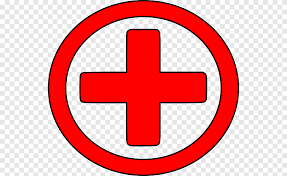
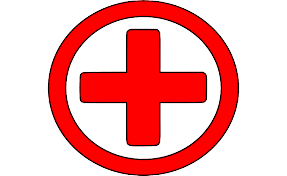
Added toast and some tweaks

Changed region(s): [[0.0, 0.0, 1.0, 1.0], [0.223, 0.0852, 0.7805, 0.9091], [0.446, 0.9943, 0.5575, 1.0]]

diff --git a/lib/login_signup_page.dart b/lib/login_signup_page.dart
@@ -1,6 +1,8 @@
 import 'package:flutter/material.dart';
 import 'package:login_demo/authentication.dart';
 
+import 'package:fluttertoast/fluttertoast.dart';
+
 class LoginSignupPage extends StatefulWidget {
   LoginSignupPage({this.auth, this.loginCallback});
 
@@ -88,7 +90,7 @@ class _LoginSignupPageState extends State<LoginSignupPage> {
       child: Padding(
         padding: EdgeInsets.fromLTRB(0.0, 30.0, 0.0, 0.0),
         child: CircleAvatar(
-          // backgroundColor: Colors.transparent,
+          backgroundColor: Colors.transparent,
           radius: 48.0,
           child: Image.asset('assets/cross.png'),
         ),
@@ -98,7 +100,7 @@ class _LoginSignupPageState extends State<LoginSignupPage> {
 
   Widget showEmailInput() {
     return Padding(
-      padding: const EdgeInsets.fromLTRB(0.0, 80.0, 0.0, 0.0),
+      padding: const EdgeInsets.fromLTRB(0.0, 50.0, 0.0, 0.0),
       child: new TextFormField(
         maxLines: 1,
         keyboardType: TextInputType.emailAddress,
@@ -117,7 +119,7 @@ class _LoginSignupPageState extends State<LoginSignupPage> {
 
   Widget showPasswordInput() {
     return Padding(
-      padding: const EdgeInsets.fromLTRB(0.0, 15.0, 0.0, 0.0),
+      padding: const EdgeInsets.fromLTRB(0.0, 20.0, 0.0, 0.0),
       child: new TextFormField(
         maxLines: 1,
         obscureText: true,
@@ -210,13 +212,39 @@ class _LoginSignupPageState extends State<LoginSignupPage> {
         if (_isLoginForm) {
           userId = await widget.auth.signIn(_email, _password);
           print('Signed in: $userId');
+
+          Fluttertoast.showToast(
+            msg: "LOGIN Success",
+            toastLength: Toast.LENGTH_SHORT,
+            gravity: ToastGravity.CENTER,
+            timeInSecForIosWeb: 1,
+            backgroundColor: Colors.grey,
+            textColor: Colors.black,
+            fontSize: 16.0,
+          );
         }
         // SignupForm
         else {
-          userId = await widget.auth.signUp(_email, _password);
+          try {
+            userId = await widget.auth.signUp(_email, _password);
+            // Toast.show("Signup Success", context,
+            //     duration: Toast.LENGTH_SHORT, gravity: Toast.BOTTOM);
+
+            Fluttertoast.showToast(
+                msg: "SIGNUP Success",
+                toastLength: Toast.LENGTH_SHORT,
+                gravity: ToastGravity.CENTER,
+                timeInSecForIosWeb: 1,
+                backgroundColor: Colors.grey,
+                textColor: Colors.black,
+                fontSize: 16.0);
+
+            print('Signed up user: $userId');
+          } catch (e) {
+            print(e);
+          }
           //widget.auth.sendEmailVerification();
           //_showVerifyEmailSentDialog();
-          print('Signed up user: $userId');
         }
         setState(() {
           _isLoading = false;

diff --git a/lib/homepage.dart b/lib/homepage.dart
@@ -1,6 +1,8 @@
 import 'package:flutter/material.dart';
 import 'package:login_demo/authentication.dart';
 
+import 'package:fluttertoast/fluttertoast.dart';
+
 class HomePage extends StatelessWidget {
   HomePage({this.auth, this.userId, this.onSignedOut});
 
@@ -12,6 +14,17 @@ class HomePage extends StatelessWidget {
     try {
       await auth.signOut();
       onSignedOut();
+
+      Fluttertoast.showToast(
+        
+          msg: "Logout Success",
+          toastLength: Toast.LENGTH_SHORT,
+          gravity: ToastGravity.BOTTOM,
+          timeInSecForIosWeb: 1,
+          backgroundColor: Colors.grey,
+          textColor: Colors.black,
+          fontSize: 16.0
+          );
     } catch (e) {
       print(e);
     }
@@ -27,13 +40,31 @@ class HomePage extends StatelessWidget {
               onPressed: _signOut,
               child: new Text(
                 'Logout',
-                style: new TextStyle(fontSize: 17, color: Colors.white),
+                style: new TextStyle(
+                  fontSize: 17,
+                  color: Colors.white,
+                ),
               ))
         ],
       ),
       body: new Container(
-        child: new Text("Hello " + userId),
-      ),
+          // child: new Text("Hello " + userId,
+          //     style: new TextStyle(
+          //         fontSize: 20.0,
+          //         color: Colors.black,
+          //         fontWeight: FontWeight.bold)),
+          child: new RichText(
+        text: new TextSpan(
+          text: 'Hello ',
+          style: new TextStyle(fontSize: 18, color: Colors.black),
+          children: <TextSpan>[
+            new TextSpan(
+                text: userId + " (UID)",
+                style:
+                    new TextStyle(fontSize: 16, fontWeight: FontWeight.bold)),
+          ],
+        ),
+      )),
     );
   }
 }

diff --git a/lib/main.dart b/lib/main.dart
@@ -1,6 +1,8 @@
 import 'package:flutter/material.dart';
-// import 'login_signup_page.dart';
+
+// Firebase
 import 'package:login_demo/authentication.dart';
+
 import 'package:login_demo/rootpage.dart';
 
 void main() => runApp(new MyApp());
@@ -9,10 +11,13 @@ class MyApp extends StatelessWidget {
   @override
   Widget build(BuildContext context) {
     return new MaterialApp(
+        debugShowCheckedModeBanner: false,
         title: 'DOCS APP',
         theme: new ThemeData(
           primarySwatch: Colors.blue,
         ),
+
+        // Passing the Firebase Auth
         home: new Rootpage(auth: new Auth()));
   }
 }

diff --git a/lib/rootpage.dart b/lib/rootpage.dart
@@ -1,4 +1,5 @@
 import 'package:flutter/material.dart';
+
 import 'package:login_demo/login_signup_page.dart';
 import 'package:login_demo/authentication.dart';
 import 'package:login_demo/homepage.dart';
@@ -82,9 +83,6 @@ class _RootpageState extends State<Rootpage> {
           );
         }
         break;
-
-      default:
-      // return buildWaitingScreen();
     }
   }
 }
